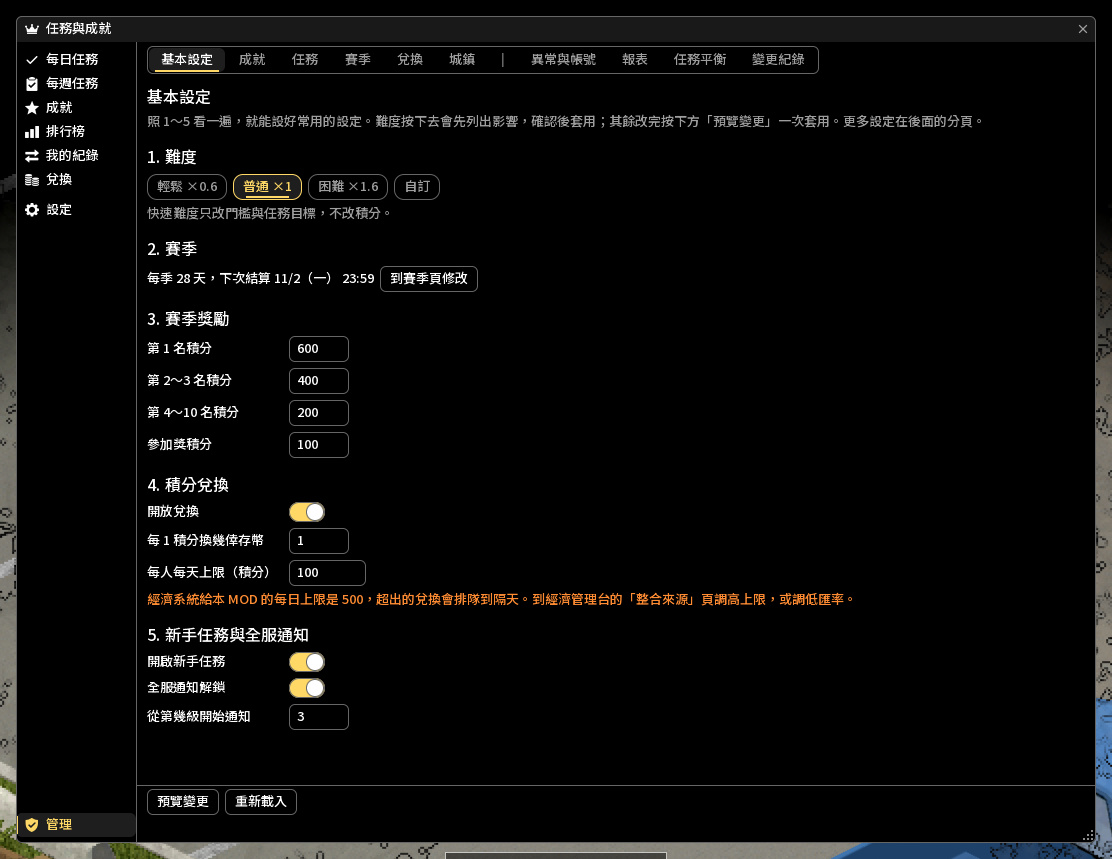
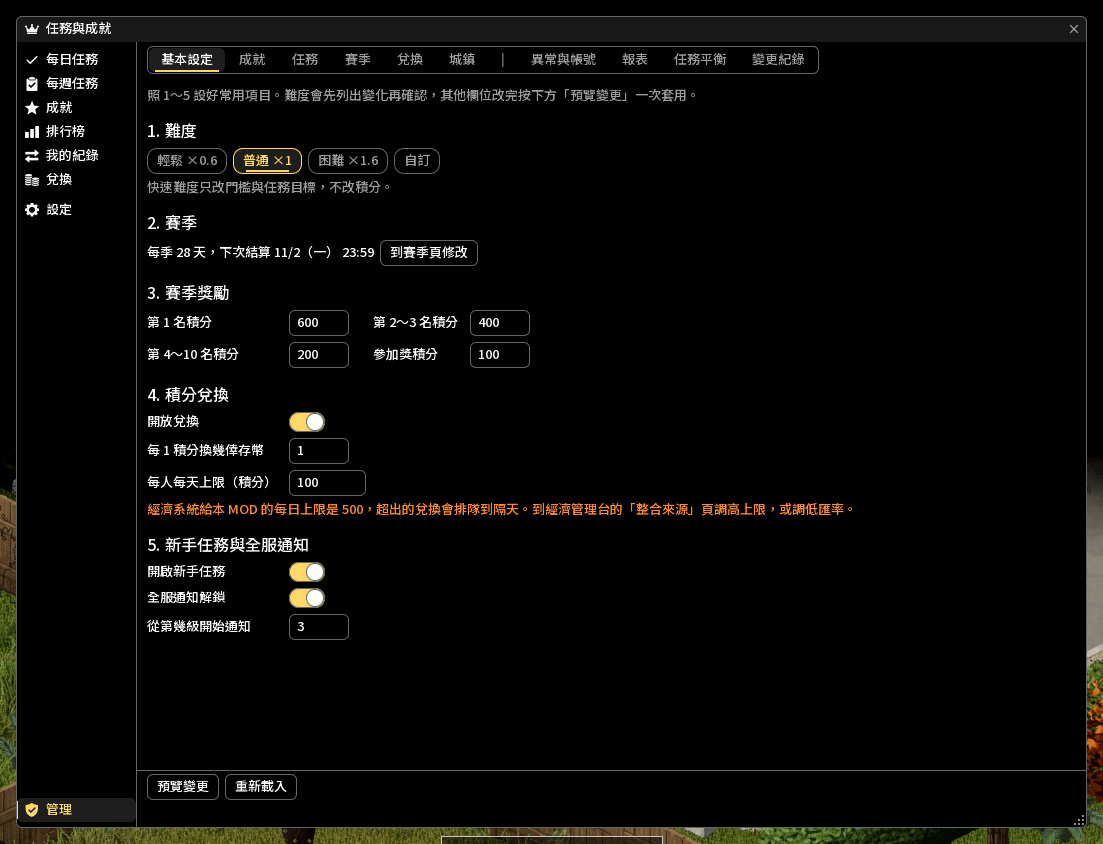
基本設定頁：拿掉和分頁同名的頁標題、16 語開頭說明縮短、賽季獎勵四格排成兩欄，英文第 5 步不用捲動（ui-mp CH 1025k、EN／RU 1025l）

diff --git a/CHANGELOG.md b/CHANGELOG.md
@@ -32,7 +32,7 @@
 - **設定檔**：服主不進遊戲也能改任務、成就、兌換等設定：直接編輯伺服器上的設定檔，存檔後約一分鐘內生效，也會記一筆可以復原的變更紀錄；檔案有錯時整份不套用，並寫出第幾行或哪個欄位。在管理面板改設定也會寫回這個檔。
 - **中途加入**：既有存檔裝上本 MOD 時，自動匯入每位玩家目前角色的擊殺數、單命存活天數與技能等級，符合的成就直接解鎖（不通知，這部分積分不能兌換）；其他統計從裝上那天開始算。
 - **玩家頁面細節**：有進度的任務按「換一個任務」會先確認一次，不會誤按就丟掉進度；連續天數的寬限日與漏掉的日子除了顏色也用圖示區分；數字的千分位依語言用逗號或空格；「我的紀錄」寫明中途加入時匯入了哪些紀錄。
-- **管理面板細節**：「套用變更？」畫面的套用與取消固定在底部列，難度估計表放在差異清單上面；任務平衡頁多了派發與換掉兩欄，完成率不算換掉的任務，建議寫出目前與建議的目標區間，樣本不足的任務寫明原因；任務頁的整組按鈕移到主題篩選旁，另有跳到共同目標、連續獎勵、新手任務、限時活動的按鈕，整組調整後底部會寫出做了什麼，有待套用變更的任務標「已改」；限時活動寫明按下就生效、不能在變更紀錄復原。
+- **管理面板細節**：「套用變更？」畫面的套用與取消固定在底部列，難度估計表放在差異清單上面；任務平衡頁多了派發與換掉兩欄，完成率不算換掉的任務，建議寫出目前與建議的目標區間，樣本不足的任務寫明原因；任務頁的整組按鈕移到主題篩選旁，另有跳到共同目標、連續獎勵、新手任務、限時活動的按鈕，整組調整後底部會寫出做了什麼，有待套用變更的任務標「已改」；限時活動寫明按下就生效、不能在變更紀錄復原；基本設定頁變短：拿掉和分頁同名的標題、說明縮短、賽季獎勵四格排成兩欄。
 - **管理面板「報表」頁**：看近 7 天或近 30 天有多少人在玩（任務進度、統計或登入都算）、新帳號、每日與每週任務完成率、每天的活躍人數與完成每日任務的人數、換掉任務次數；積分發出多少、各來源佔多少、換成倖存幣多少、還有多少沒花；每項成就各級有幾人、哪些成就沒人解鎖。只有總數，沒有個別玩家，也可以匯出成 JSON 檔在遊戲外分析。兌換頁的每日預估改成近 7 天平均（沒有兌換的日子算 0），不再被少數幾天的大量兌換拉高。
 - **各主題的任務**：「設定」最下面可以展開每個主題的每日與每週任務，寫出目前難度下的目標範圍與積分，冷門任務另外標出。預設只有管理員看得到；管理員在「管理」的任務頁最上面打開後，玩家也看得到。「管理」在視窗左側自成一組，移到最下面。
 - **介面支援 12 種語言**：繁體中文、簡體中文、英文、日文、韓文、俄文、西班牙文、葡萄牙文、土耳其文、法文、波蘭文、德文。翻譯有問題請回報。
